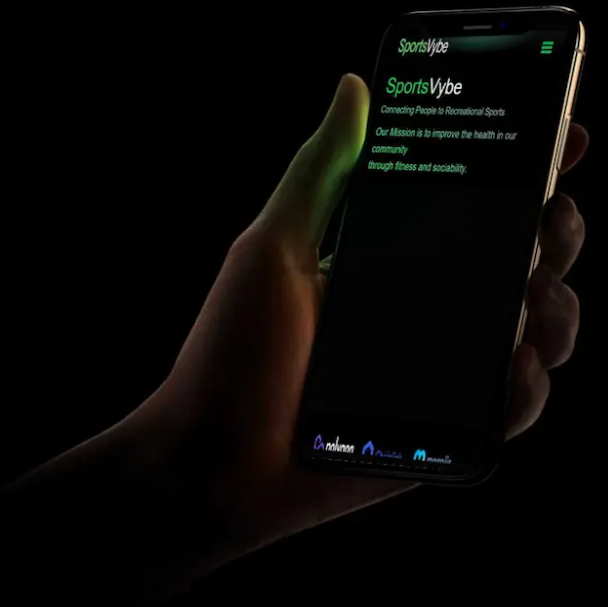
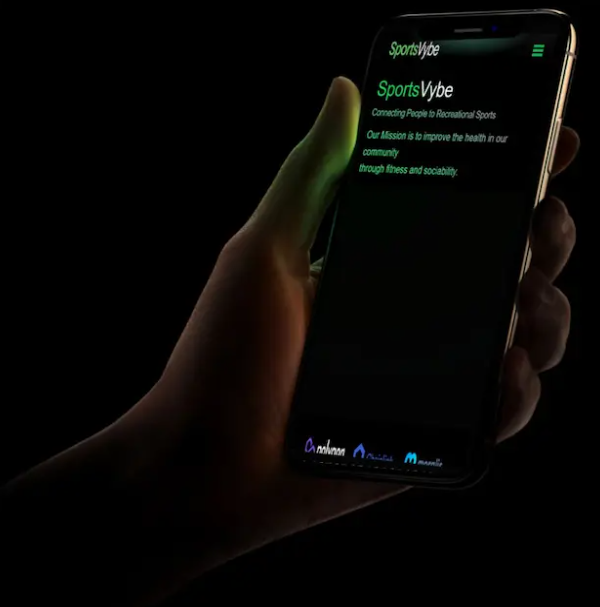
chore: updated many components

diff --git a/client/components/Home.tsx b/client/components/Home.tsx
@@ -30,7 +30,7 @@ export const Home = () => {
       </div>
 
       <div
-        className="md:pt-12 pt-8 md:flex-row justify-evenly flex "
+        className="md:pt-32 pt-8 md:flex-row justify-evenly flex "
         data-aos="fade-up"
         data-aos-easing="linear"
         data-aos-duration="1600"
